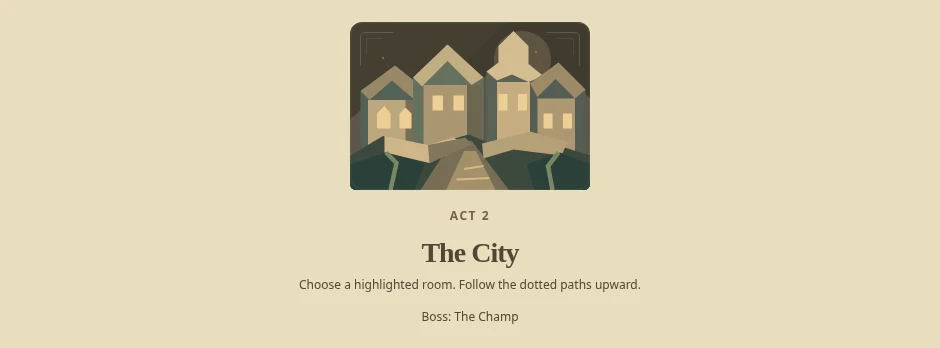
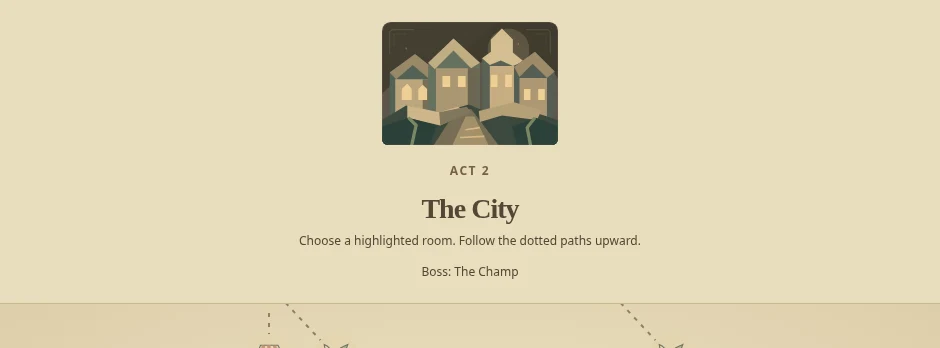
docs(art): verify Spire act maps at unchanged layout

diff --git a/src/shared/art/FeatureArt.css b/src/shared/art/FeatureArt.css
@@ -125,7 +125,7 @@
 }
 .map-heading > .act-art {
   display: block;
-  width: 240px;
+  width: 176px;
   max-width: 100%;
   height: auto;
   margin: 0 auto 16px;

diff --git a/docs/art/assets/spire-act-scenes/README.md b/docs/art/assets/spire-act-scenes/README.md
@@ -2,11 +2,15 @@
 
 Issue [#34](https://github.com/qianyizhang/game/issues/34) reworks the three `160 × 112` map introductions. The baseline is main `8918f475831f55dd1016779f4ee24550c7c2013d`. The comparison exports both revisions through the same SVG catalogue; the map captures replay `tests/fixtures/spire-win.json` to the first map state of each act at desktop 1440 px and phone 390 px.
 
-| View                                                  | Before                      | Proposed                     |
-| ----------------------------------------------------- | --------------------------- | ---------------------------- |
-| Act II in the map header, same desktop crop           | [Before](before-scene.webp) | [Proposed](after-scene.webp) |
-| Acts I–III, left to right; enlarged above native size | [Before](before-zoom.webp)  | [Proposed](after-zoom.webp)  |
+| View                                                  | Before                             | Proposed                            |
+| ----------------------------------------------------- | ---------------------------------- | ----------------------------------- |
+| Act II in the map header, same desktop crop           | [Before](before-scene.webp)        | [Proposed](after-scene.webp)        |
+| Acts I–III, left to right; enlarged above native size | [Before](before-zoom.webp)         | [Proposed](after-zoom.webp)         |
+| Acts I–III, desktop map panels and reachable routes   | [Before](before-desktop-maps.webp) | [Proposed](after-desktop-maps.webp) |
+| Acts I–III, 390 px map panels and reachable routes    | [Before](before-phone-maps.webp)   | [Proposed](after-phone-maps.webp)   |
 
-Act I is a broken gate and traversable approach; the unequal stone faces and fallen blocks give the entrance weight. Act II is a stacked city with a visible street, lit windows and contrasting roof/wall planes. Act III is a fractured celestial height with a central spire, offset fragments and a lower void. The map enlarges each scene to 240 px while keeping the route controls and labels below it.
+Act I is a broken gate and traversable approach; the unequal stone faces and fallen blocks give the entrance weight. Act II is a stacked city with a visible street, lit windows and contrasting roof/wall planes. Act III is a fractured celestial height with a central spire, offset fragments and a lower void. The map keeps its original 176 px scene display size and panel layout.
 
-The current export contains 644 SVG entries; the comparison reports only `spire/acts/1`, `spire/acts/2` and `spire/acts/3` changed. Independent visual review and final technical gates are pending. These images are review evidence for repository artwork, not a Site publication.
+The [export receipt](export-receipt.json) hashes every SVG and reports 644 exports with only `spire/acts/1`, `spire/acts/2` and `spire/acts/3` changed. The [map layout receipt](map-layout-receipt.json) records matching baseline/proposal state and panel dimensions at both viewports; all five initially reachable route buttons are visible and hit-testable in each act, and one phone route click per act advances to row 0. This is a first-map-state check, not a claim about every later room.
+
+Independent review accepted the proposed artwork pixels at the initial draft head. Final review of the matched map context and exact-head checks is pending. These images are repository review evidence, not a Site publication.
